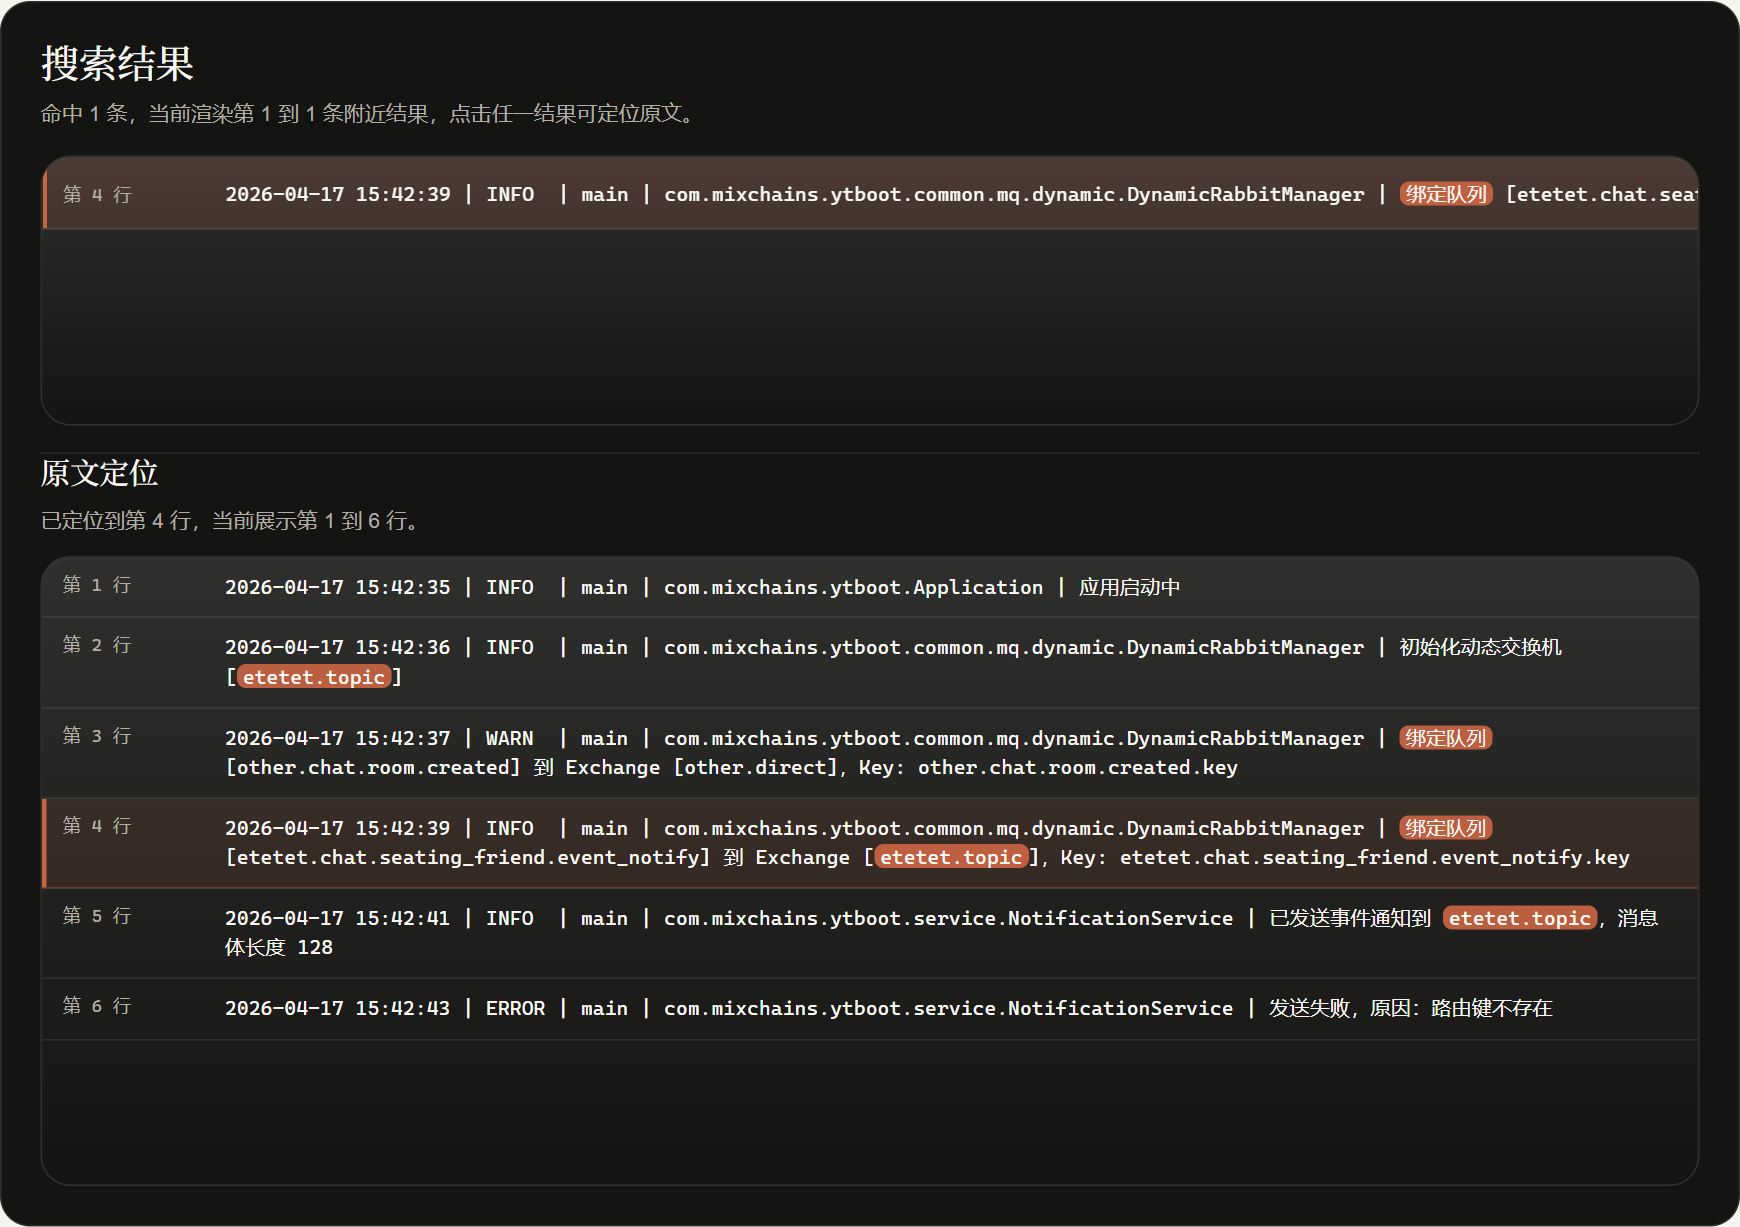
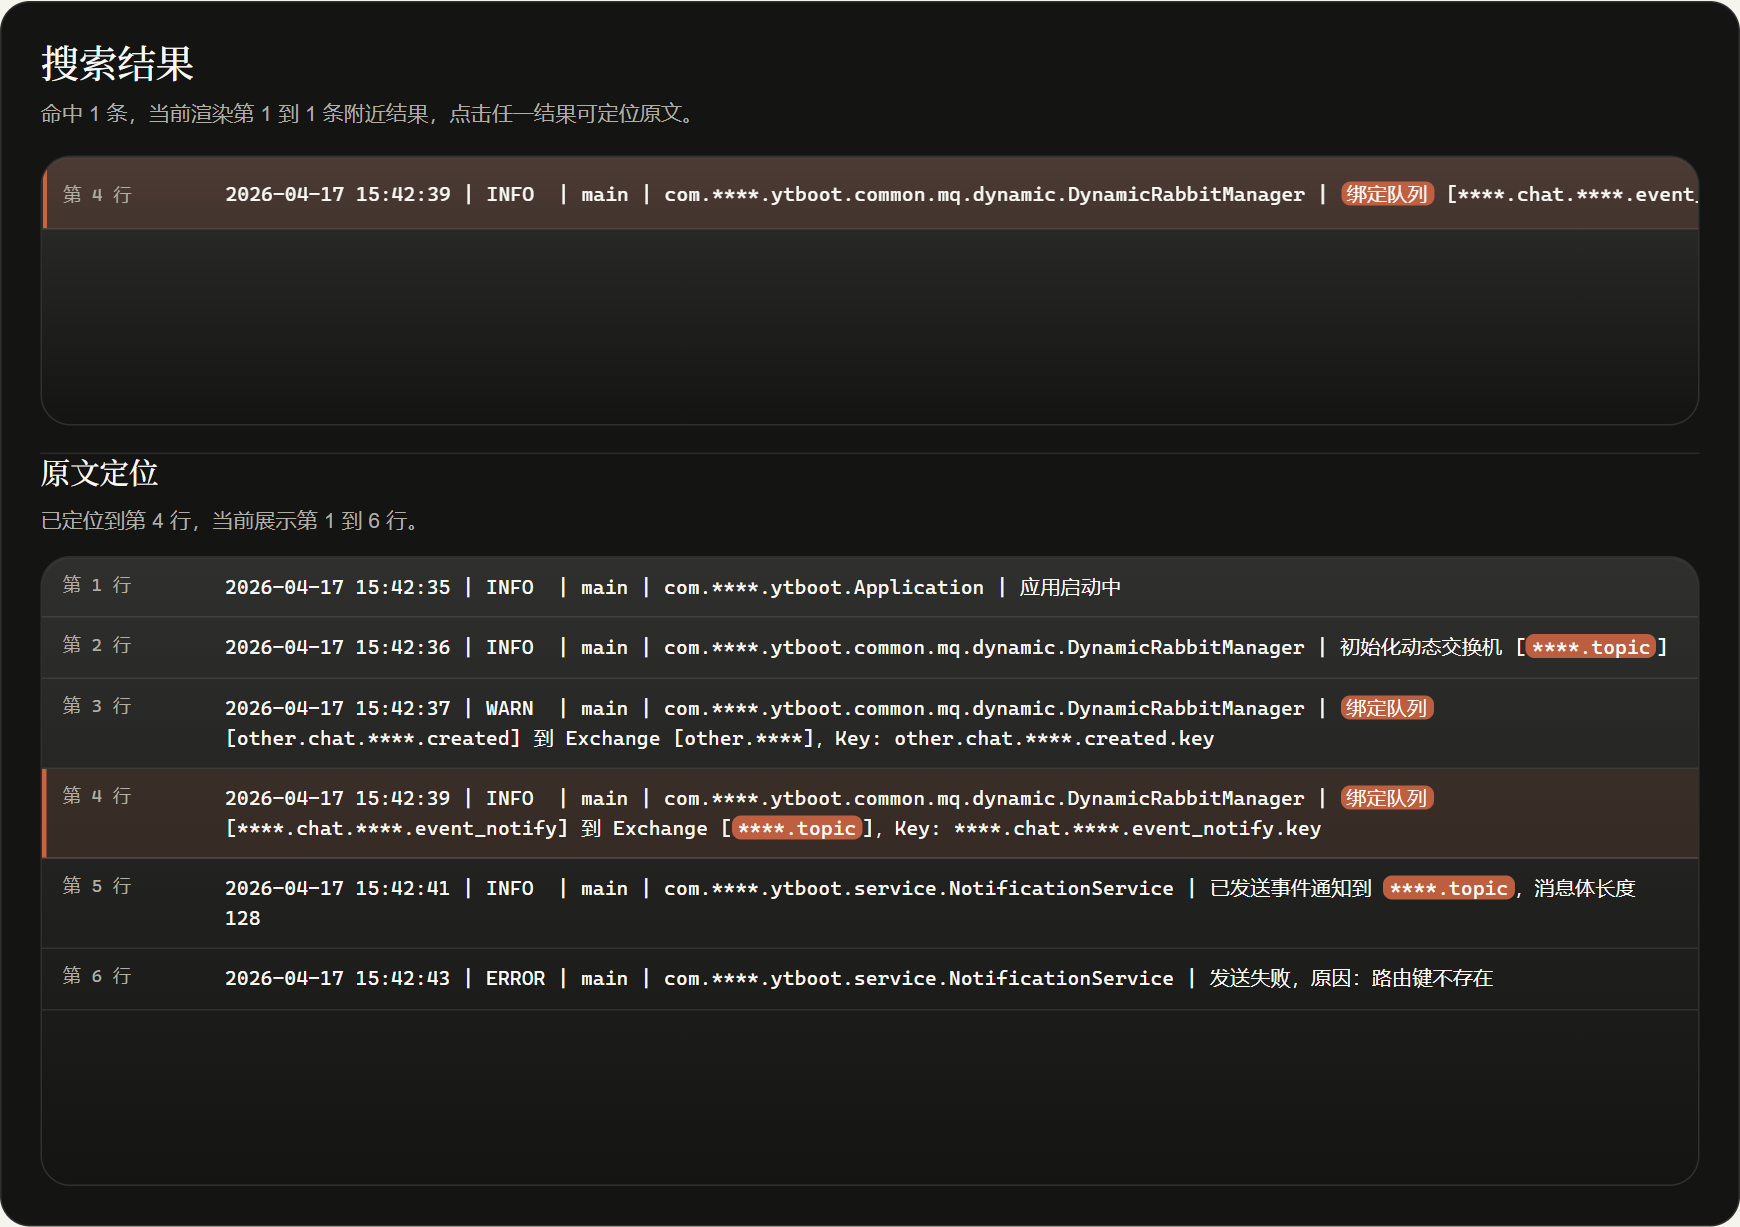
feat:初始化项目

diff --git a/README.md b/README.md
@@ -11,7 +11,7 @@
 
 ![界面总览](docs/screenshots/search-finished.png)
 
-> 上图为当前版本真实界面截图，基于仓库内置示例日志拍摄。
+> 上图为当前版本真实界面截图，基于仓库内置示例日志拍摄，截图与示例日志内容均已做脱敏处理。
 
 ## 这个工具适合什么时候打开
 
@@ -73,7 +73,7 @@ http://127.0.0.1:8080
 例如你想确认下面两个条件是否同时出现：
 
 - `绑定队列`
-- `etetet.topic`
+- `****.topic`
 
 只要原始日志行同时包含这两个条件，就会被命中并高亮显示。
 
@@ -108,7 +108,7 @@ samples/sample.log
 其中包含这条示例日志：
 
 ```text
-2026-04-17 15:42:39 | INFO  | main | com.mixchains.ytboot.common.mq.dynamic.DynamicRabbitManager | 绑定队列 [etetet.chat.seating_friend.event_notify] 到 Exchange [etetet.topic]，Key: etetet.chat.seating_friend.event_notify.key
+2026-04-17 15:42:39 | INFO  | main | com.****.ytboot.common.mq.dynamic.DynamicRabbitManager | 绑定队列 [****.chat.****.event_notify] 到 Exchange [****.topic]，Key: ****.chat.****.event_notify.key
 ```
 
 ## 常见问题
@@ -168,7 +168,7 @@ log-search/
 
 1. 打开 `index.html`
 2. 选择 `samples/sample.log`
-3. 输入 `绑定队列` 和 `etetet.topic`
+3. 输入 `绑定队列` 和 `****.topic`
 4. 点击“开始搜索”
 5. 确认至少命中 1 条，并可点击结果查看上下文
 6. 切换为单条件后再次搜索，确认结果数增加
